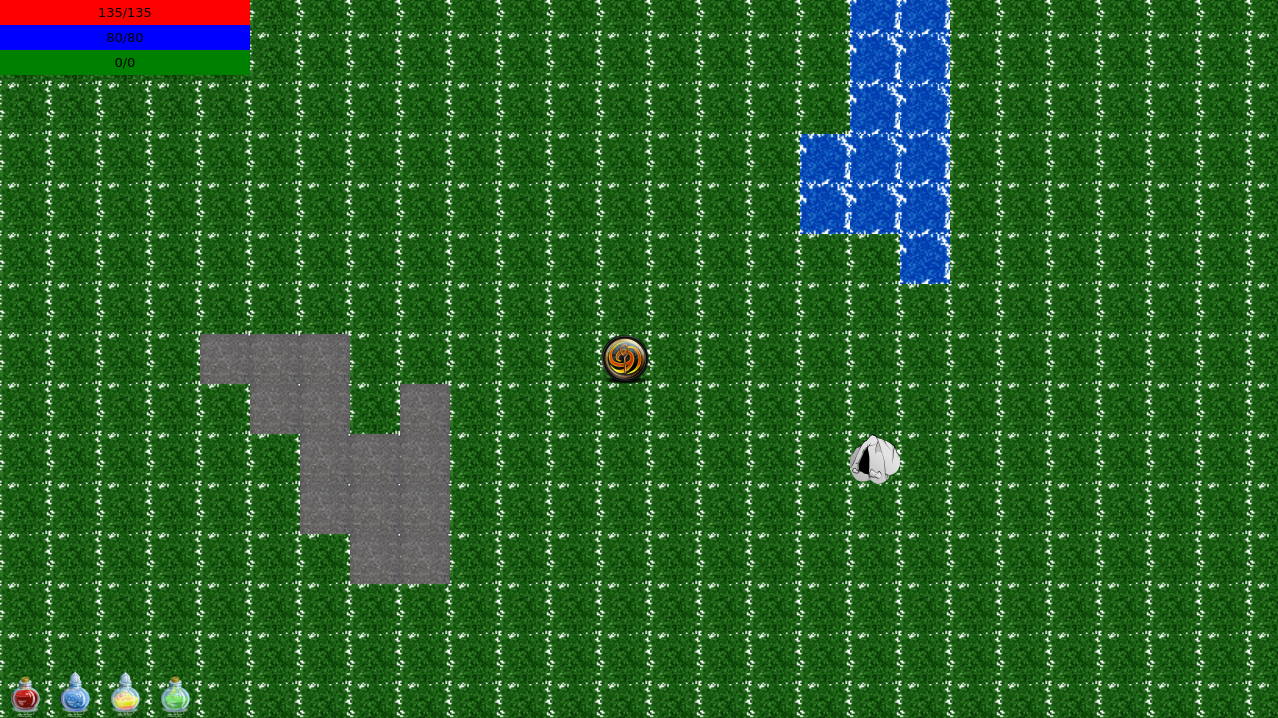
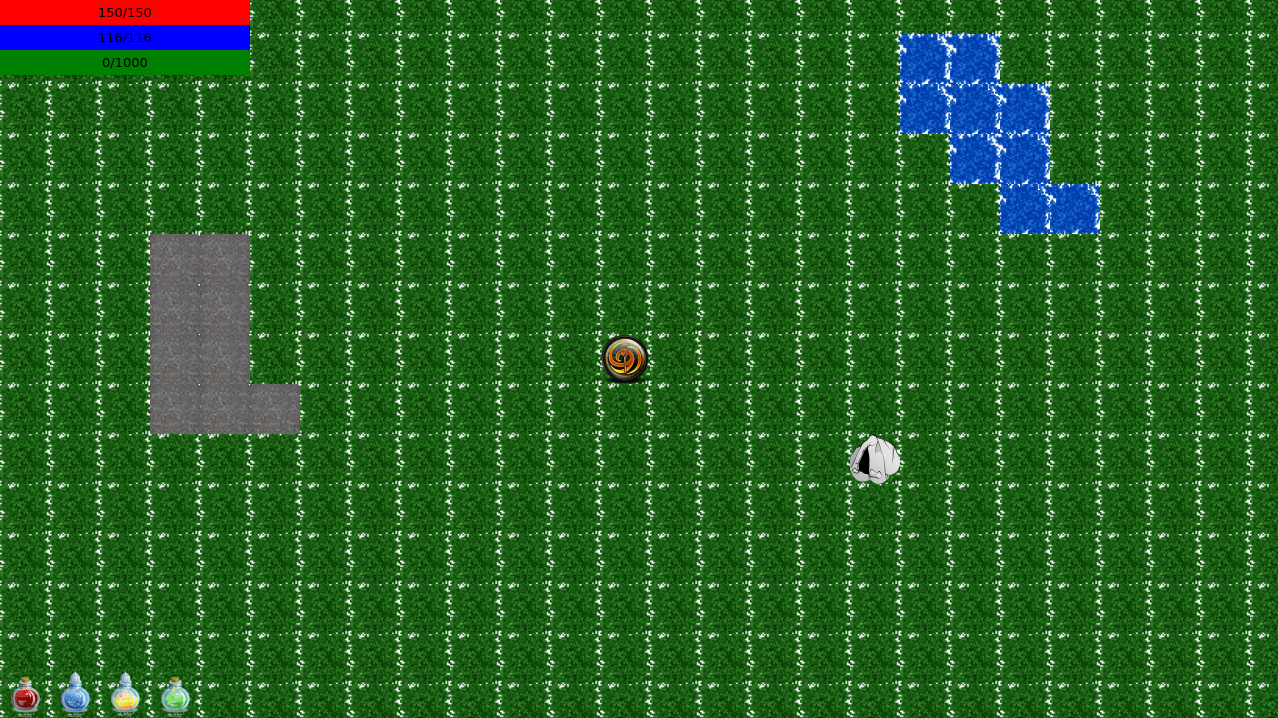
auto
Former-commit-id: b3677b45cecfaa421a2a9ad9bc9320921ad4d391
Former-commit-id: 05c27505f11627ab42786193edfa7a731643809e

Recovered-from-commit: 08867695683dd074db43837f0df8b95428921f3f

Changed region(s): [[0.0915, 0.3064, 0.3662, 0.8273], [0.6103, 0.0, 0.885, 0.3983], [0.0915, 0.0, 0.1221, 0.0919]]

diff --git a/buildings/cave.cpp b/buildings/cave.cpp
@@ -1,10 +1,9 @@
 #include "cave.h"
 
-#include <creatures/monsters/pritz.h>
-#include <creatures/monsters/pritzmage.h>
-
 #include <view/gamescene.h>
 #include <view/playerstatsview.h>
+
+#include <creatures/monster.h>
 
 int Cave::count=0;
 Cave::Cave(Map *map, int x, int y):Building(map,x,y)
@@ -30,11 +29,11 @@ void Cave::onEnter()
                 }
                 if(rand()%5==0)
                 {
-                    map->addObject(new PritzMage(map,getPosX()+2*i,getPosY()+2*j));
+                    map->addObject(new Monster("config/monsters/pritzmage.json",map,getPosX()+2*i,getPosY()+2*j));
                 }
                 else
                 {
-                    map->addObject(new Pritz(map,getPosX()+2*i,getPosY()+2*j));
+                    map->addObject(new Monster("config/monsters/pritz.json",map,getPosX()+2*i,getPosY()+2*j));
                 }
             }
         this->removeFromGame();
@@ -47,11 +46,11 @@ void Cave::onMove()
     {
         if(rand()%5==0)
         {
-            map->addObject(new PritzMage(map,getPosX(),getPosY()));
+            map->addObject(new Monster("config/monsters/pritzmage.json",map,getPosX(),getPosY()));
         }
         else
         {
-            map->addObject(new Pritz(map,getPosX(),getPosY()));
+            map->addObject(new Monster("config/monsters/pritz.json",map,getPosX(),getPosY()));
         }
     }
 }

diff --git a/creatures/creature.cpp b/creatures/creature.cpp
@@ -30,10 +30,11 @@ int stat_resisted(int value, int resist) {
 
 } // namespace
 
-Creature::Creature(Map *map, int x, int y) : MapObject(map, x, y, 2) {
+Creature::Creature(char *path, Map *map, int x, int y)
+    : MapObject(map, x, y, 2) {
   className = "Creature";
   exp = 0;
-  level = 1;
+  level = 0;
   sw = 0;
   mana = 0;
   manaMax = 0;
@@ -45,9 +46,8 @@ Creature::Creature(Map *map, int x, int y) : MapObject(map, x, y, 2) {
   armor = 0;
 
   addAction(new Attack());
-  attribChange();
-  heal(0);
-  addMana(0);
+  initializeFromFile(path);
+  levelUp();
 }
 
 Creature::~Creature() {

diff --git a/view/gamescene.cpp b/view/gamescene.cpp
@@ -3,7 +3,7 @@
 #include <QGraphicsView>
 
 #include <buildings/cave.h>
-#include <creatures/players/mage.h>
+#include <creatures/player.h>
 #include <destroyer/destroyer.h>
 #include <view/gameview.h>
 
@@ -16,7 +16,7 @@ GameScene::GameScene() {
   map = new Map();
 
   if (!player) {
-    player = new Sorcerer(map, 0, 0);
+    player = new Player("config/players/sorcerer.json", map, 0, 0);
     map->addObject(player);
   }
 

diff --git a/creatures/player.cpp b/creatures/player.cpp
@@ -22,13 +22,10 @@
 #include <stats/stats.h>
 #include <math.h>
 
-Player::Player(Map *map, int x, int y):Creature(map,x,y)
+Player::Player(char *path,Map *map, int x, int y):Creature(path,map,x,y)
 {
-    className="Player";
     lock=false;
-    level=0;
     gold=0;
-    sw=0;
     turn=0;
     playerStatsView=new PlayerStatsView(this);
     playerStatsView->setZValue(3);

diff --git a/creatures/monster.cpp b/creatures/monster.cpp
@@ -5,10 +5,8 @@
 #include <items/potions/lifepotion.h>
 #include <items/potions/manapotion.h>
 
-Monster::Monster(Map *map,int x,int y):Creature(map,x,y)
+Monster::Monster(char *path,Map *map,int x,int y):Creature(path,map,x,y)
 {
-    className="Monster";
-    sw=0;
 }
 
 void Monster::onMove()

diff --git a/creatures/monster.h b/creatures/monster.h
@@ -6,7 +6,7 @@
 class Monster : public Creature
 {
 public:
-    Monster(Map* map, int x, int y);
+    Monster(char *path, Map* map, int x, int y);
     virtual void onMove();
     virtual void onEnter();
 

diff --git a/creatures/creature.h b/creatures/creature.h
@@ -16,7 +16,7 @@ class Stats;
 class Creature : public MapObject
 {
 public:
-    Creature(Map *map, int x, int y);
+    Creature(char *path, Map *map, int x, int y);
     ~Creature();
 
     int getExp();

diff --git a/view/gamescene.h b/view/gamescene.h
@@ -14,8 +14,7 @@
 #include <random>
 #include <time.h>
 
-#include <creatures/players/player.h>
-#include <creatures/players/mage.h>
+#include <creatures/player.h>
 
 class GameView;
 class FightView;

diff --git a/creatures/player.h b/creatures/player.h
@@ -14,7 +14,7 @@ class Player : public Creature
 
 public:
 
-    Player(Map *map,int x,int y);
+    Player(char *path, Map *map, int x, int y);
     ~Player();
 
     std::list<Item *>* getLoot() {

diff --git a/view/playerstatsview.h b/view/playerstatsview.h
@@ -4,7 +4,7 @@
 #include "scrollobject.h"
 
 #include <QGraphicsItem>
-#include <creatures/players/player.h>
+#include <creatures/player.h>
 
 class PlayerStatsView : public QGraphicsItem
 {

diff --git a/view/playerlistview.h b/view/playerlistview.h
@@ -4,7 +4,7 @@
 #include "scrollobject.h"
 
 #include <QGraphicsItem>
-#include <creatures/players/player.h>
+#include <creatures/player.h>
 
 
 class PlayerListView : public QGraphicsItem

diff --git a/interactions/interaction.cpp b/interactions/interaction.cpp
@@ -1,6 +1,6 @@
 #include "interaction.h"
 
-#include <creatures/players/player.h>
+#include <creatures/player.h>
 
 #include <view/gamescene.h>
 #include <view/gameview.h>
